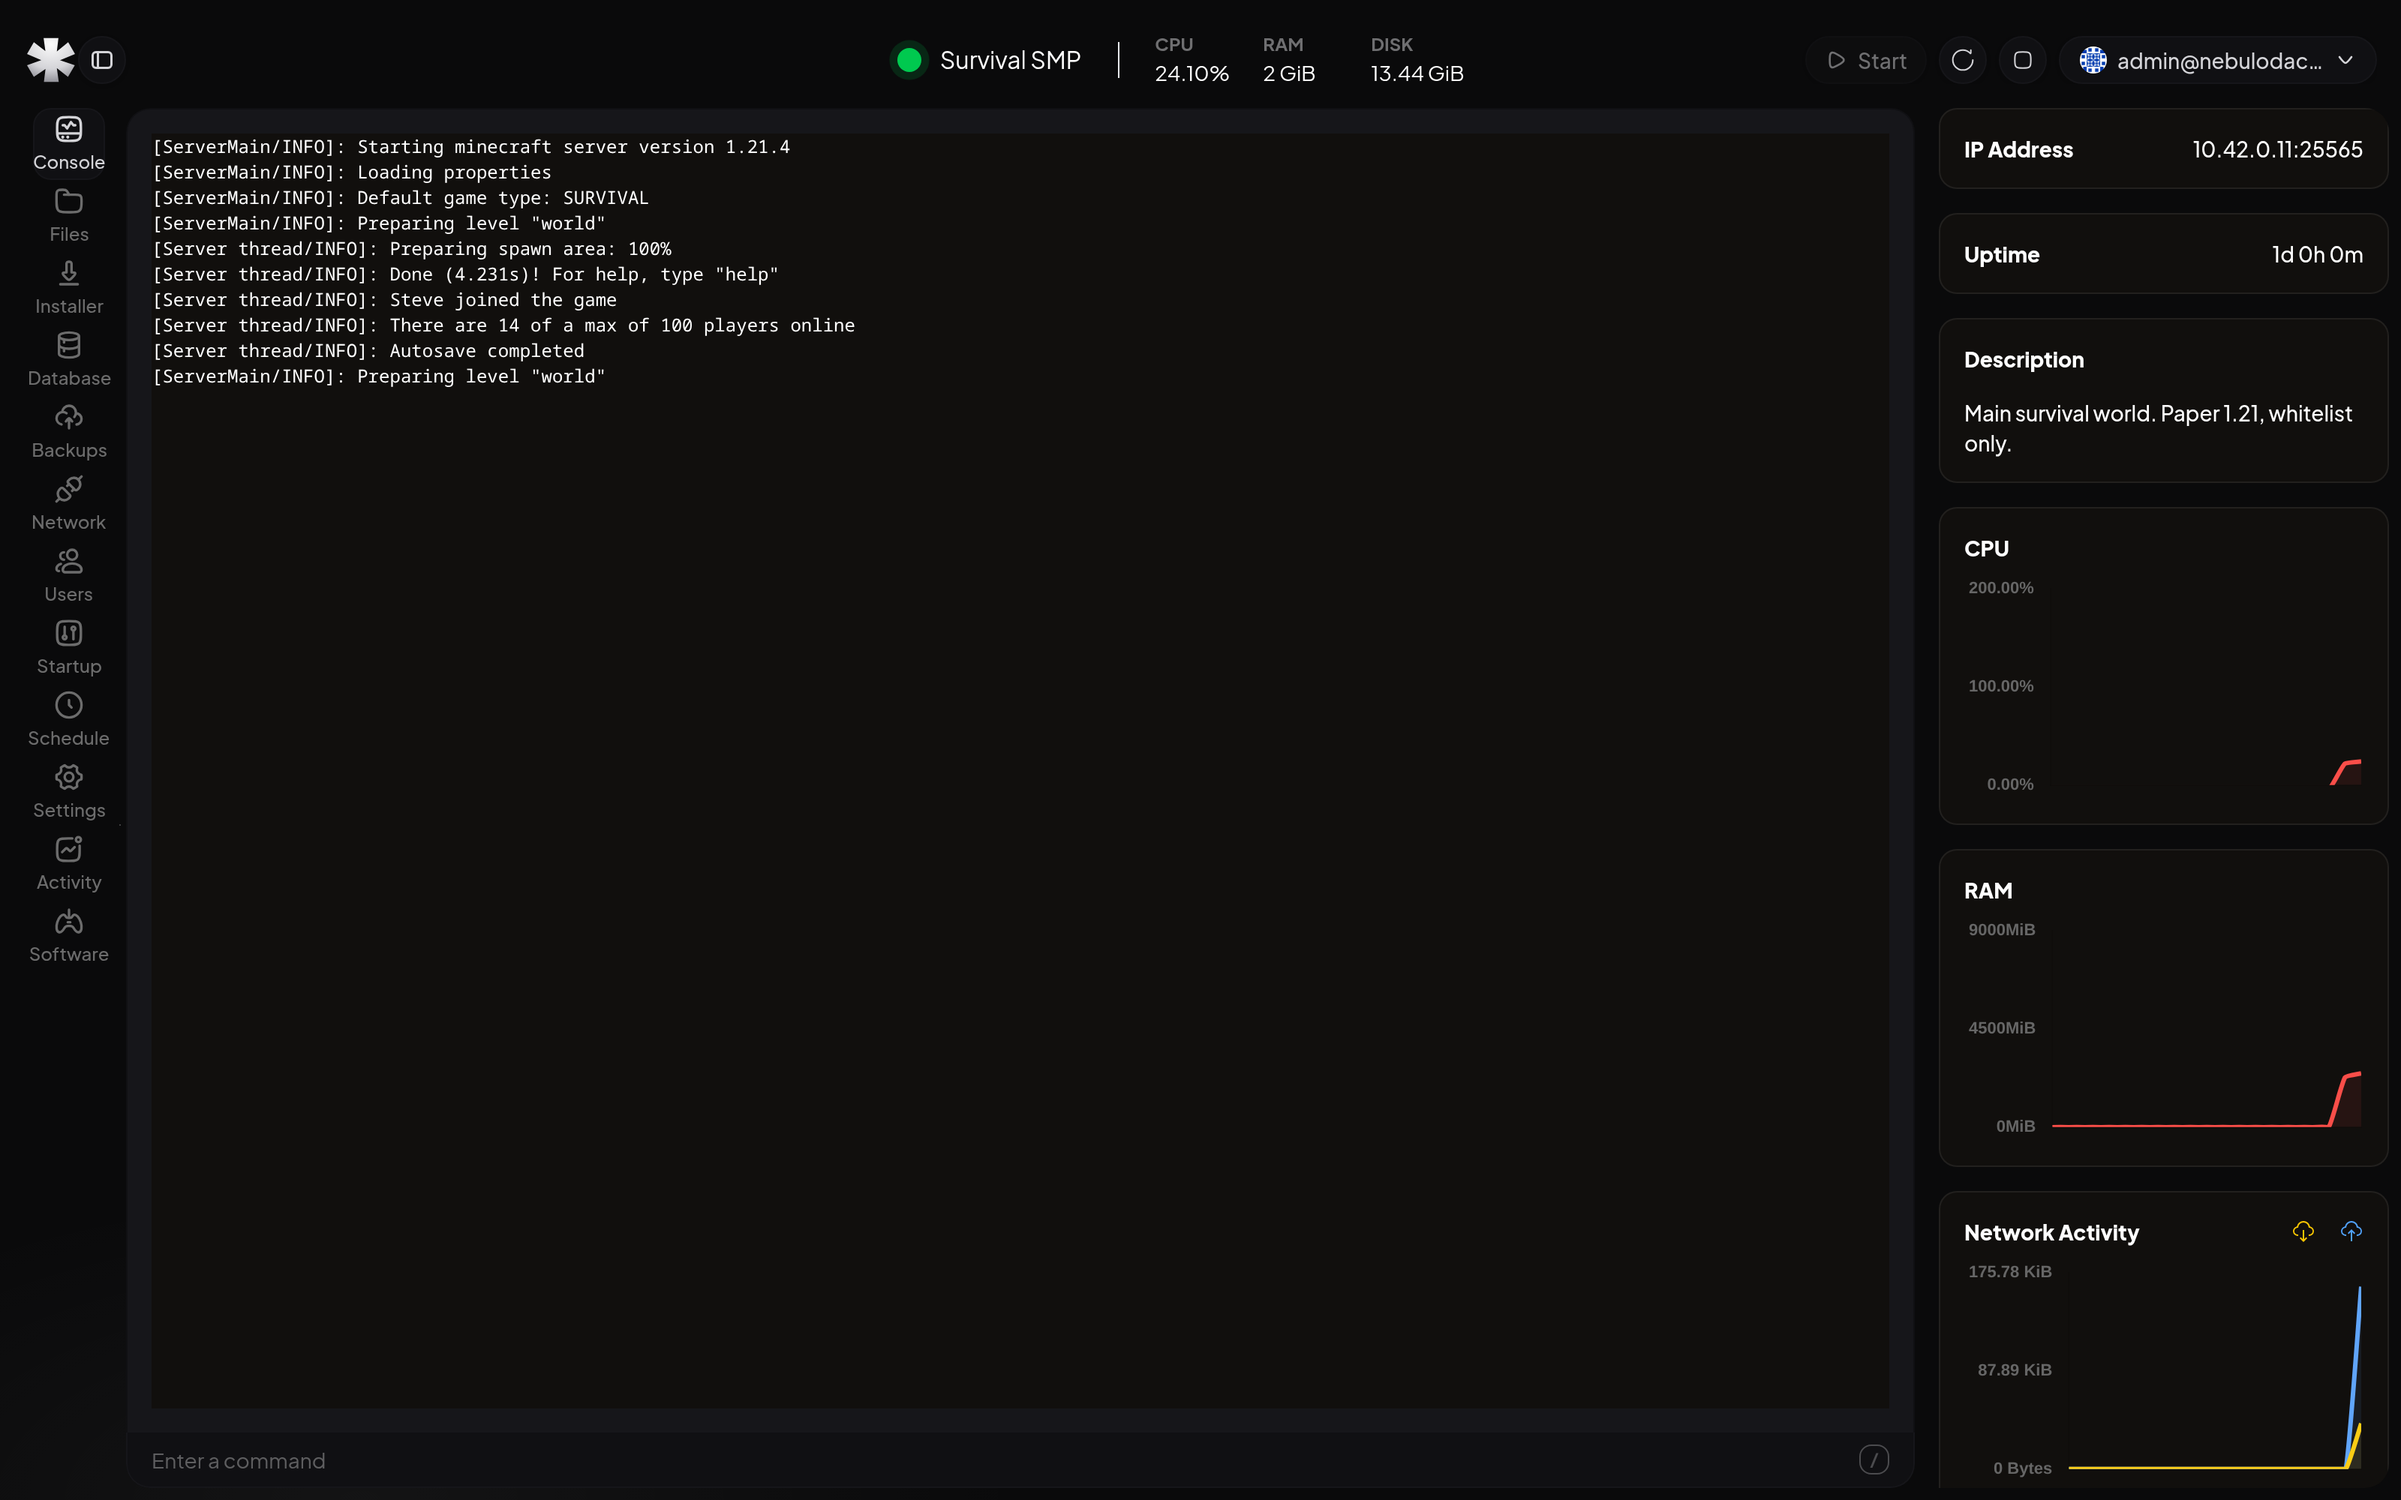
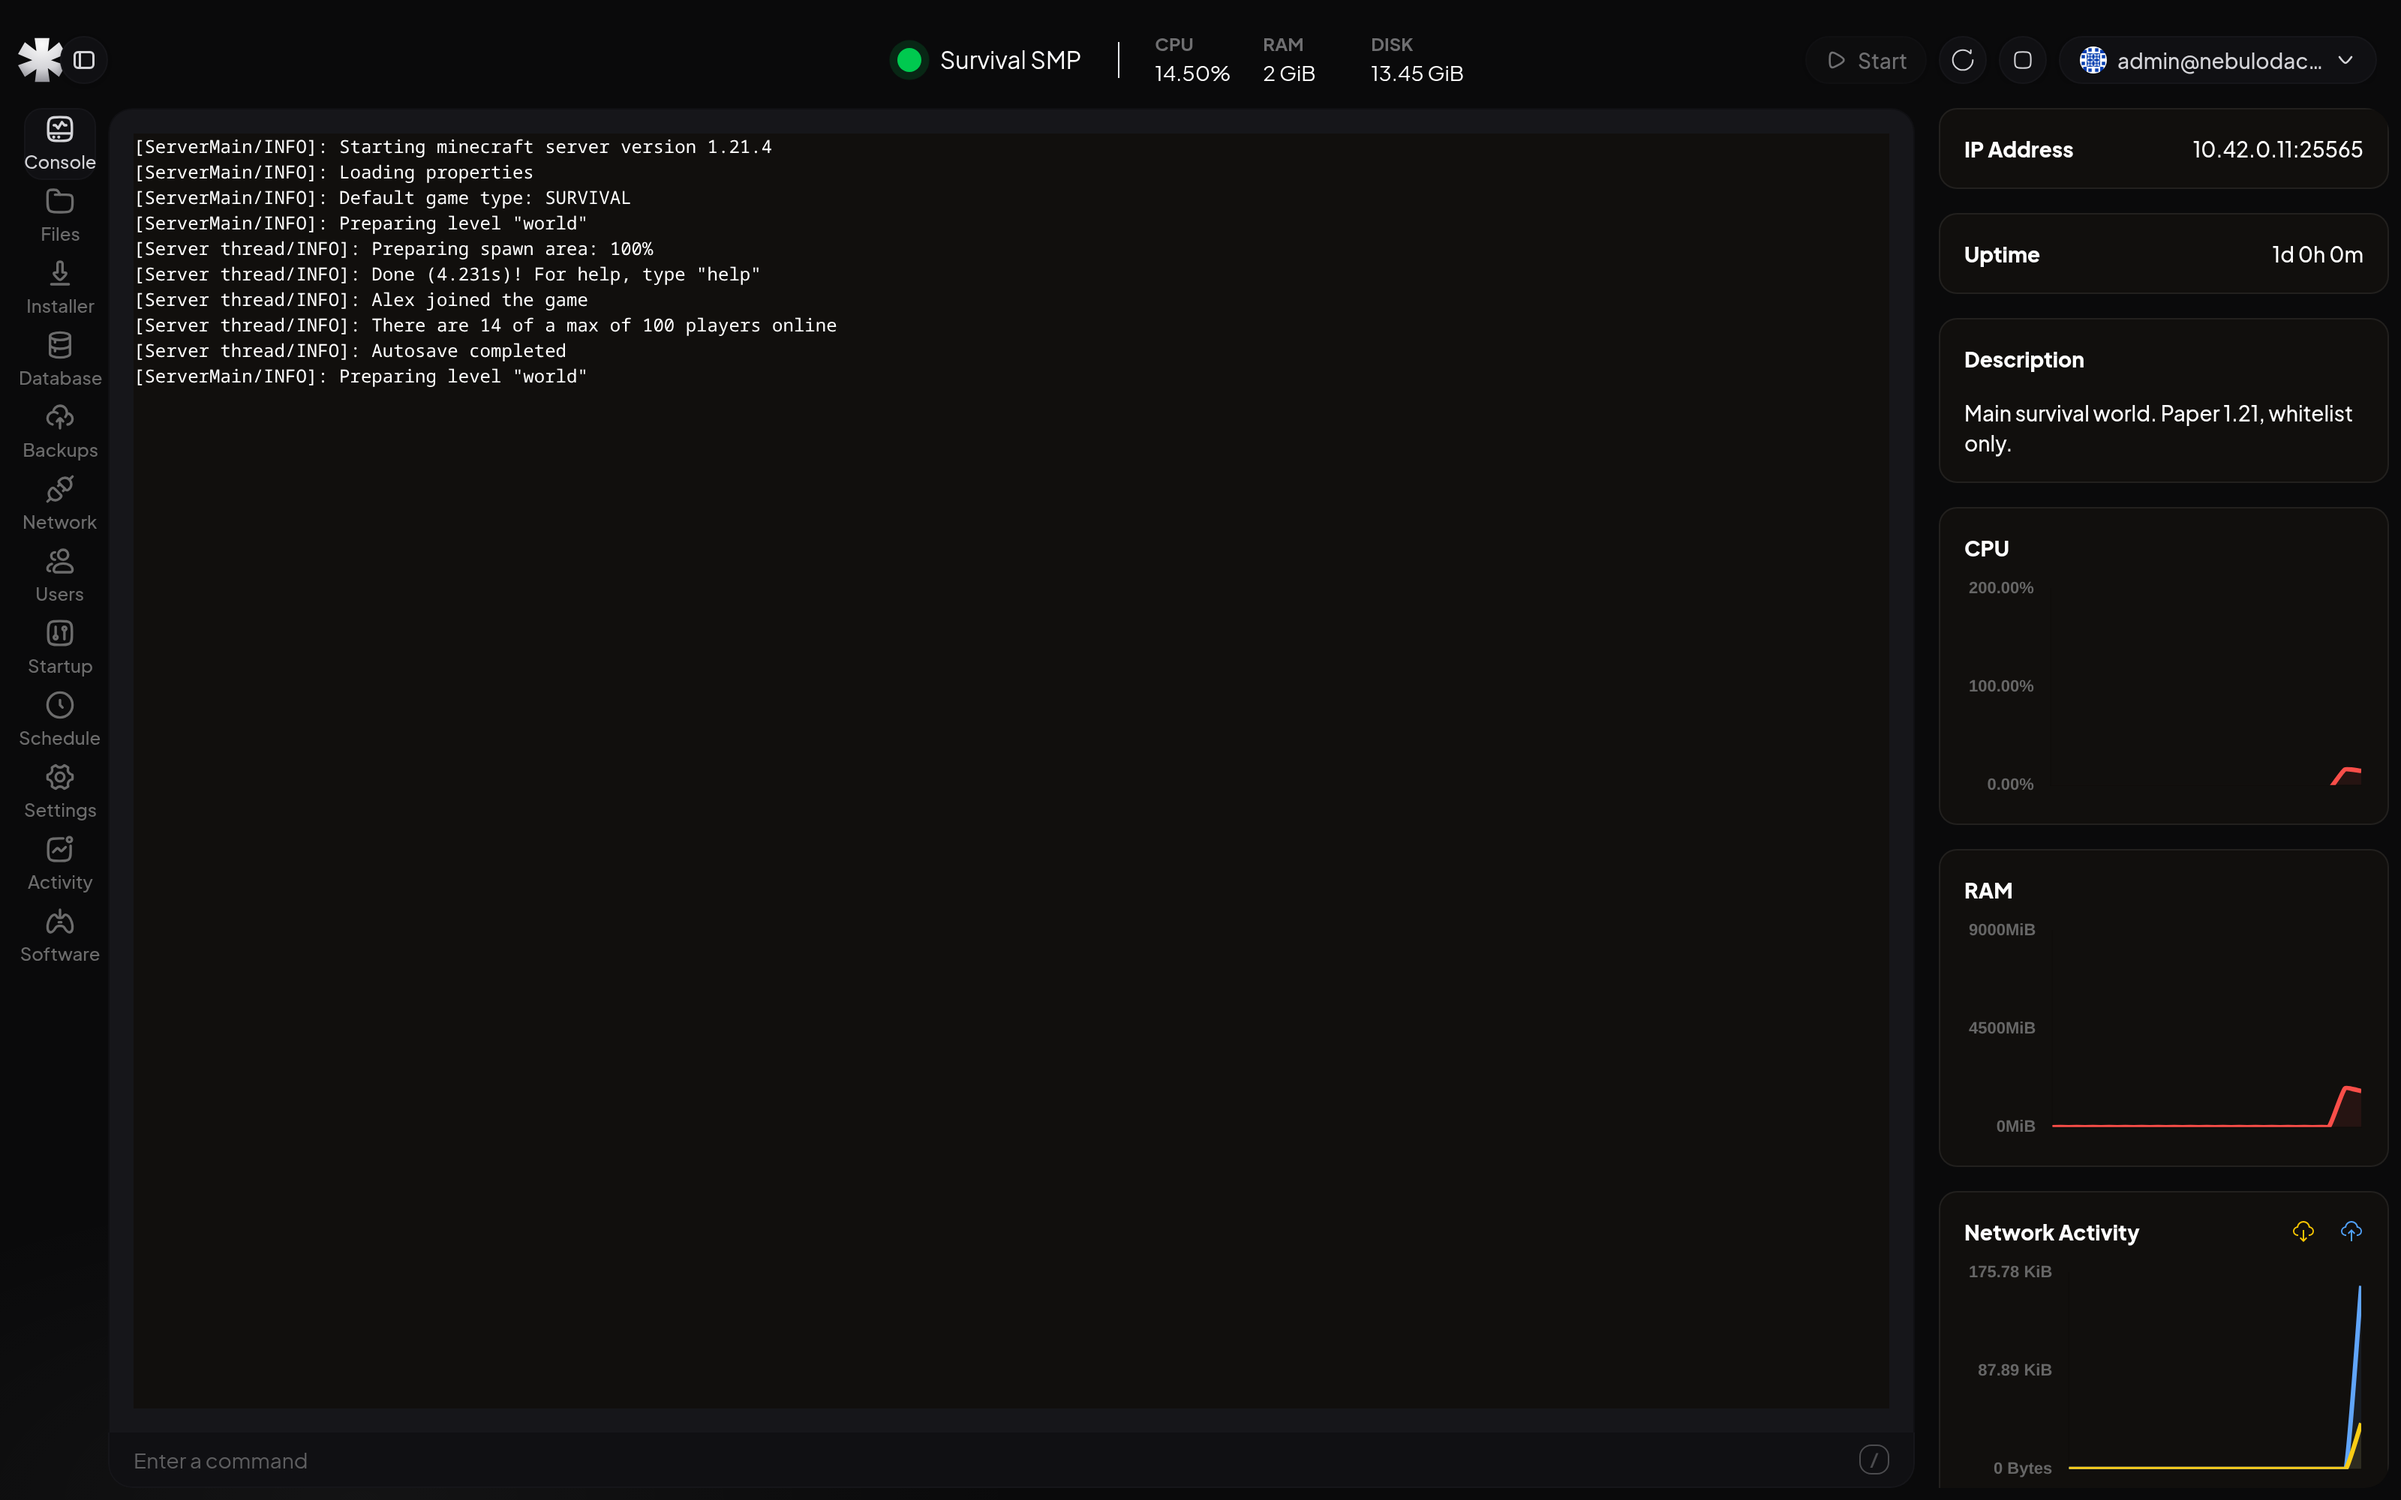
feat: compact collapsed sidebar and live-data screenshots
Collapsed sidebar narrowed from 76px to 64px so the rail is icon only
with the 48px chip centered.

Screenshot capture now waits for actual console output instead of a
fixed settle, and all showcase images were regenerated against a live
mock daemon: console shows real log lines and stats, network shows
seeded allocations, schedules shows the seeded cron job.

diff --git a/resources/scripts/components/layout/sidebar/sidebar-modern.css b/resources/scripts/components/layout/sidebar/sidebar-modern.css
@@ -8,7 +8,7 @@
     --sidebar-margin-base: 0.75rem;
     --sidebar-padding: 2rem;
     --sidebar-full-width: 300px;
-    --sidebar-minimized-width: 76px;
+    --sidebar-minimized-width: 64px;
 }
 
 body[data-sidebar-minimized="true"] {
@@ -105,7 +105,7 @@ body[data-sidebar-minimized="false"] .sidebar-logo-name {
         width var(--sidebar-transition-indicator);
 }
 
-/* In the slim rail the nav item is a 48px chip centered in 76px, so the
+/* In the slim rail the nav item is a 48px chip centered in 64px, so the
    indicator matches the chip instead of spanning the padded width. */
 body[data-sidebar-minimized="true"] .sidebar-indicator {
     width: 48px;
